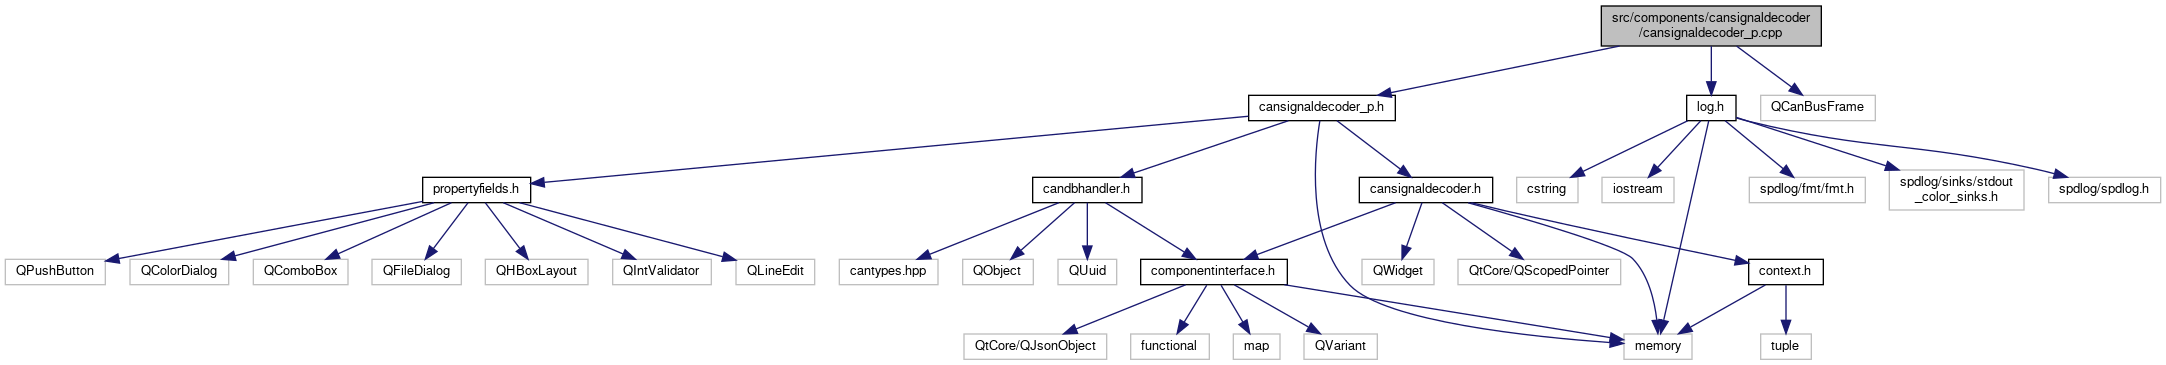
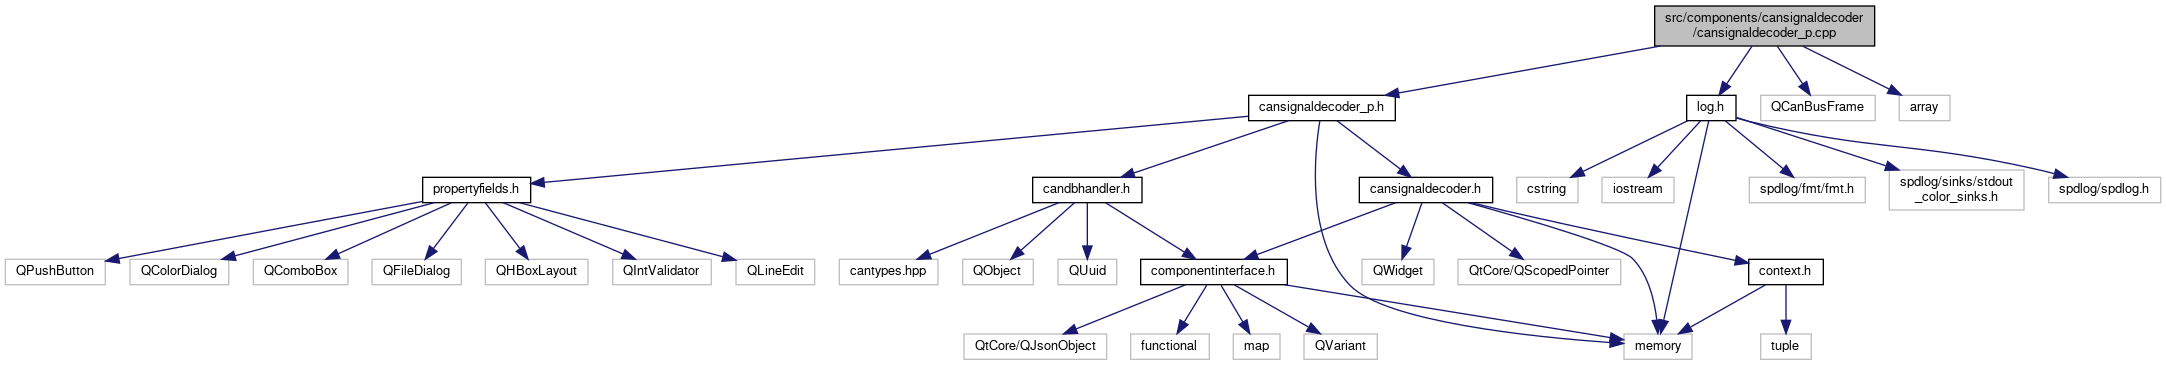
deploy: e9a850b8422395a989dd44d755311adb038e8e6a

diff --git a/cansignalencoder__p_8h_source.html b/cansignalencoder__p_8h_source.html
@@ -149,16 +149,16 @@ $(document).ready(function(){initNavTree('cansignalencoder__p_8h_source.html',''
 <div class="ttc" id="aclass_can_signal_encoder_html"><div class="ttname"><a href="class_can_signal_encoder.html">CanSignalEncoder</a></div><div class="ttdef"><b>Definition:</b> cansignalencoder.h:16</div></div>
 <div class="ttc" id="aclass_can_signal_encoder_private_html"><div class="ttname"><a href="class_can_signal_encoder_private.html">CanSignalEncoderPrivate</a></div><div class="ttdef"><b>Definition:</b> cansignalencoder_p.h:13</div></div>
 <div class="ttc" id="aclass_can_signal_encoder_private_html_a112a1b1b8e1abdddb9583ad1f53dddff"><div class="ttname"><a href="class_can_signal_encoder_private.html#a112a1b1b8e1abdddb9583ad1f53dddff">CanSignalEncoderPrivate::_props</a></div><div class="ttdeci">std::map&lt; QString, QVariant &gt; _props</div><div class="ttdef"><b>Definition:</b> cansignalencoder_p.h:31</div></div>
-<div class="ttc" id="aclass_can_signal_encoder_private_html_a1c3cdb130393f5fd9a4c0426e6a22fbc"><div class="ttname"><a href="class_can_signal_encoder_private.html#a1c3cdb130393f5fd9a4c0426e6a22fbc">CanSignalEncoderPrivate::setSettings</a></div><div class="ttdeci">void setSettings(const QJsonObject &amp;json)</div><div class="ttdef"><b>Definition:</b> cansignalencoder_p.cpp:38</div></div>
-<div class="ttc" id="aclass_can_signal_encoder_private_html_a1d15427a185d95550469435887cd573c"><div class="ttname"><a href="class_can_signal_encoder_private.html#a1d15427a185d95550469435887cd573c">CanSignalEncoderPrivate::initCacheAndTimers</a></div><div class="ttdeci">void initCacheAndTimers()</div><div class="ttdef"><b>Definition:</b> cansignalencoder_p.cpp:142</div></div>
+<div class="ttc" id="aclass_can_signal_encoder_private_html_a1c3cdb130393f5fd9a4c0426e6a22fbc"><div class="ttname"><a href="class_can_signal_encoder_private.html#a1c3cdb130393f5fd9a4c0426e6a22fbc">CanSignalEncoderPrivate::setSettings</a></div><div class="ttdeci">void setSettings(const QJsonObject &amp;json)</div><div class="ttdef"><b>Definition:</b> cansignalencoder_p.cpp:63</div></div>
+<div class="ttc" id="aclass_can_signal_encoder_private_html_a1d15427a185d95550469435887cd573c"><div class="ttname"><a href="class_can_signal_encoder_private.html#a1d15427a185d95550469435887cd573c">CanSignalEncoderPrivate::initCacheAndTimers</a></div><div class="ttdeci">void initCacheAndTimers()</div><div class="ttdef"><b>Definition:</b> cansignalencoder_p.cpp:204</div></div>
 <div class="ttc" id="aclass_can_signal_encoder_private_html_a2688d67dd4cdfcb8e8f0fee73f22e26e"><div class="ttname"><a href="class_can_signal_encoder_private.html#a2688d67dd4cdfcb8e8f0fee73f22e26e">CanSignalEncoderPrivate::_simStarted</a></div><div class="ttdeci">bool _simStarted</div><div class="ttdef"><b>Definition:</b> cansignalencoder_p.h:29</div></div>
 <div class="ttc" id="aclass_can_signal_encoder_private_html_a38ed3288a7c041e826e42e2b87492720"><div class="ttname"><a href="class_can_signal_encoder_private.html#a38ed3288a7c041e826e42e2b87492720">CanSignalEncoderPrivate::_ctx</a></div><div class="ttdeci">CanSignalEncoderCtx _ctx</div><div class="ttdef"><b>Definition:</b> cansignalencoder_p.h:30</div></div>
 <div class="ttc" id="aclass_can_signal_encoder_private_html_a3d613b26e42b0954362a073dff501794"><div class="ttname"><a href="class_can_signal_encoder_private.html#a3d613b26e42b0954362a073dff501794">CanSignalEncoderPrivate::_cycleTimers</a></div><div class="ttdeci">std::vector&lt; std::unique_ptr&lt; QTimer &gt; &gt; _cycleTimers</div><div class="ttdef"><b>Definition:</b> cansignalencoder_p.h:33</div></div>
-<div class="ttc" id="aclass_can_signal_encoder_private_html_a8782b3bd7b60325796c8cebf780305f3"><div class="ttname"><a href="class_can_signal_encoder_private.html#a8782b3bd7b60325796c8cebf780305f3">CanSignalEncoderPrivate::getSettings</a></div><div class="ttdeci">QJsonObject getSettings()</div><div class="ttdef"><b>Definition:</b> cansignalencoder_p.cpp:27</div></div>
-<div class="ttc" id="aclass_can_signal_encoder_private_html_ac01cb0866a4cfdd1299a069c4a2883c9"><div class="ttname"><a href="class_can_signal_encoder_private.html#ac01cb0866a4cfdd1299a069c4a2883c9">CanSignalEncoderPrivate::encodeSignal</a></div><div class="ttdeci">void encodeSignal(const QString &amp;name, const QVariant &amp;val)</div><div class="ttdef"><b>Definition:</b> cansignalencoder_p.cpp:49</div></div>
+<div class="ttc" id="aclass_can_signal_encoder_private_html_a8782b3bd7b60325796c8cebf780305f3"><div class="ttname"><a href="class_can_signal_encoder_private.html#a8782b3bd7b60325796c8cebf780305f3">CanSignalEncoderPrivate::getSettings</a></div><div class="ttdeci">QJsonObject getSettings()</div><div class="ttdef"><b>Definition:</b> cansignalencoder_p.cpp:52</div></div>
+<div class="ttc" id="aclass_can_signal_encoder_private_html_ac01cb0866a4cfdd1299a069c4a2883c9"><div class="ttname"><a href="class_can_signal_encoder_private.html#ac01cb0866a4cfdd1299a069c4a2883c9">CanSignalEncoderPrivate::encodeSignal</a></div><div class="ttdeci">void encodeSignal(const QString &amp;name, const QVariant &amp;val)</div><div class="ttdef"><b>Definition:</b> cansignalencoder_p.cpp:74</div></div>
 <div class="ttc" id="aclass_can_signal_encoder_private_html_aca7d29bed834a7aaff2d6be71dd8b2a9"><div class="ttname"><a href="class_can_signal_encoder_private.html#aca7d29bed834a7aaff2d6be71dd8b2a9">CanSignalEncoderPrivate::_db</a></div><div class="ttdeci">CanDbHandler _db</div><div class="ttdef"><b>Definition:</b> cansignalencoder_p.h:32</div></div>
-<div class="ttc" id="aclass_can_signal_encoder_private_html_ad52fbe4e830aa8006e7cb53e3ad7f19b"><div class="ttname"><a href="class_can_signal_encoder_private.html#ad52fbe4e830aa8006e7cb53e3ad7f19b">CanSignalEncoderPrivate::CanSignalEncoderPrivate</a></div><div class="ttdeci">CanSignalEncoderPrivate(CanSignalEncoder *q, CanSignalEncoderCtx &amp;&amp;ctx=CanSignalEncoderCtx())</div><div class="ttdef"><b>Definition:</b> cansignalencoder_p.cpp:5</div></div>
-<div class="ttc" id="aclass_can_signal_encoder_private_html_ad88db336ecfffbd2720b79085539d583"><div class="ttname"><a href="class_can_signal_encoder_private.html#ad88db336ecfffbd2720b79085539d583">CanSignalEncoderPrivate::getSupportedProperties</a></div><div class="ttdeci">ComponentInterface::ComponentProperties getSupportedProperties() const</div><div class="ttdef"><b>Definition:</b> cansignalencoder_p.cpp:22</div></div>
+<div class="ttc" id="aclass_can_signal_encoder_private_html_ad52fbe4e830aa8006e7cb53e3ad7f19b"><div class="ttname"><a href="class_can_signal_encoder_private.html#ad52fbe4e830aa8006e7cb53e3ad7f19b">CanSignalEncoderPrivate::CanSignalEncoderPrivate</a></div><div class="ttdeci">CanSignalEncoderPrivate(CanSignalEncoder *q, CanSignalEncoderCtx &amp;&amp;ctx=CanSignalEncoderCtx())</div><div class="ttdef"><b>Definition:</b> cansignalencoder_p.cpp:30</div></div>
+<div class="ttc" id="aclass_can_signal_encoder_private_html_ad88db336ecfffbd2720b79085539d583"><div class="ttname"><a href="class_can_signal_encoder_private.html#ad88db336ecfffbd2720b79085539d583">CanSignalEncoderPrivate::getSupportedProperties</a></div><div class="ttdeci">ComponentInterface::ComponentProperties getSupportedProperties() const</div><div class="ttdef"><b>Definition:</b> cansignalencoder_p.cpp:47</div></div>
 <div class="ttc" id="apropertyfields_8h_html"><div class="ttname"><a href="propertyfields_8h.html">propertyfields.h</a></div></div>
 <div class="ttc" id="astruct_component_interface_html_a79433f0a1dc1aec86f1e95b0199c4c6c"><div class="ttname"><a href="struct_component_interface.html#a79433f0a1dc1aec86f1e95b0199c4c6c">ComponentInterface::ComponentProperties</a></div><div class="ttdeci">std::vector&lt; ComponentProperty &gt; ComponentProperties</div><div class="ttdef"><b>Definition:</b> componentinterface.h:66</div></div>
 <div class="ttc" id="astruct_component_interface_html_a88d3bbc65e8418798dbdc6ee491e768b"><div class="ttname"><a href="struct_component_interface.html#a88d3bbc65e8418798dbdc6ee491e768b">ComponentInterface::CustomEditFieldCbk</a></div><div class="ttdeci">std::function&lt; QWidget *(void)&gt; CustomEditFieldCbk</div><div class="ttdef"><b>Definition:</b> componentinterface.h:64</div></div>

diff --git a/cansignaldecoder__p_8h_source.html b/cansignaldecoder__p_8h_source.html
@@ -143,13 +143,13 @@ $(document).ready(function(){initNavTree('cansignaldecoder__p_8h_source.html',''
 <div class="ttc" id="aclass_can_signal_decoder_private_html"><div class="ttname"><a href="class_can_signal_decoder_private.html">CanSignalDecoderPrivate</a></div><div class="ttdef"><b>Definition:</b> cansignaldecoder_p.h:11</div></div>
 <div class="ttc" id="aclass_can_signal_decoder_private_html_a1cbeb06235e38de0e115f2ed20b55b74"><div class="ttname"><a href="class_can_signal_decoder_private.html#a1cbeb06235e38de0e115f2ed20b55b74">CanSignalDecoderPrivate::_db</a></div><div class="ttdeci">CanDbHandler _db</div><div class="ttdef"><b>Definition:</b> cansignaldecoder_p.h:29</div></div>
 <div class="ttc" id="aclass_can_signal_decoder_private_html_a35fbc4765b82aaefad89a2a6380b77ef"><div class="ttname"><a href="class_can_signal_decoder_private.html#a35fbc4765b82aaefad89a2a6380b77ef">CanSignalDecoderPrivate::_ctx</a></div><div class="ttdeci">CanSignalDecoderCtx _ctx</div><div class="ttdef"><b>Definition:</b> cansignaldecoder_p.h:27</div></div>
-<div class="ttc" id="aclass_can_signal_decoder_private_html_a5a32691a6d89a0271c4e8deba8f42947"><div class="ttname"><a href="class_can_signal_decoder_private.html#a5a32691a6d89a0271c4e8deba8f42947">CanSignalDecoderPrivate::setSettings</a></div><div class="ttdeci">void setSettings(const QJsonObject &amp;json)</div><div class="ttdef"><b>Definition:</b> cansignaldecoder_p.cpp:38</div></div>
+<div class="ttc" id="aclass_can_signal_decoder_private_html_a5a32691a6d89a0271c4e8deba8f42947"><div class="ttname"><a href="class_can_signal_decoder_private.html#a5a32691a6d89a0271c4e8deba8f42947">CanSignalDecoderPrivate::setSettings</a></div><div class="ttdeci">void setSettings(const QJsonObject &amp;json)</div><div class="ttdef"><b>Definition:</b> cansignaldecoder_p.cpp:64</div></div>
 <div class="ttc" id="aclass_can_signal_decoder_private_html_a88f1544ad57e210a1a281845b71d47c3"><div class="ttname"><a href="class_can_signal_decoder_private.html#a88f1544ad57e210a1a281845b71d47c3">CanSignalDecoderPrivate::_simStarted</a></div><div class="ttdeci">bool _simStarted</div><div class="ttdef"><b>Definition:</b> cansignaldecoder_p.h:26</div></div>
-<div class="ttc" id="aclass_can_signal_decoder_private_html_aa8c689a7733993c4edcf5f00d3b8c187"><div class="ttname"><a href="class_can_signal_decoder_private.html#aa8c689a7733993c4edcf5f00d3b8c187">CanSignalDecoderPrivate::getSettings</a></div><div class="ttdeci">QJsonObject getSettings()</div><div class="ttdef"><b>Definition:</b> cansignaldecoder_p.cpp:27</div></div>
-<div class="ttc" id="aclass_can_signal_decoder_private_html_aae01622326d2b3a8b71b7e6eb7b5482c"><div class="ttname"><a href="class_can_signal_decoder_private.html#aae01622326d2b3a8b71b7e6eb7b5482c">CanSignalDecoderPrivate::CanSignalDecoderPrivate</a></div><div class="ttdeci">CanSignalDecoderPrivate(CanSignalDecoder *q, CanSignalDecoderCtx &amp;&amp;ctx=CanSignalDecoderCtx())</div><div class="ttdef"><b>Definition:</b> cansignaldecoder_p.cpp:5</div></div>
+<div class="ttc" id="aclass_can_signal_decoder_private_html_aa8c689a7733993c4edcf5f00d3b8c187"><div class="ttname"><a href="class_can_signal_decoder_private.html#aa8c689a7733993c4edcf5f00d3b8c187">CanSignalDecoderPrivate::getSettings</a></div><div class="ttdeci">QJsonObject getSettings()</div><div class="ttdef"><b>Definition:</b> cansignaldecoder_p.cpp:53</div></div>
+<div class="ttc" id="aclass_can_signal_decoder_private_html_aae01622326d2b3a8b71b7e6eb7b5482c"><div class="ttname"><a href="class_can_signal_decoder_private.html#aae01622326d2b3a8b71b7e6eb7b5482c">CanSignalDecoderPrivate::CanSignalDecoderPrivate</a></div><div class="ttdeci">CanSignalDecoderPrivate(CanSignalDecoder *q, CanSignalDecoderCtx &amp;&amp;ctx=CanSignalDecoderCtx())</div><div class="ttdef"><b>Definition:</b> cansignaldecoder_p.cpp:31</div></div>
 <div class="ttc" id="aclass_can_signal_decoder_private_html_ad51bbd69f48fa2ee026f60d6cba39b08"><div class="ttname"><a href="class_can_signal_decoder_private.html#ad51bbd69f48fa2ee026f60d6cba39b08">CanSignalDecoderPrivate::_props</a></div><div class="ttdeci">std::map&lt; QString, QVariant &gt; _props</div><div class="ttdef"><b>Definition:</b> cansignaldecoder_p.h:28</div></div>
-<div class="ttc" id="aclass_can_signal_decoder_private_html_adebd1a778944acf707cfb2c7c9895dbe"><div class="ttname"><a href="class_can_signal_decoder_private.html#adebd1a778944acf707cfb2c7c9895dbe">CanSignalDecoderPrivate::decodeFrame</a></div><div class="ttdeci">void decodeFrame(const QCanBusFrame &amp;frame, Direction const direction, bool status)</div><div class="ttdef"><b>Definition:</b> cansignaldecoder_p.cpp:49</div></div>
-<div class="ttc" id="aclass_can_signal_decoder_private_html_ae1c21191f5f77f1c15ffcf6a34e0a15b"><div class="ttname"><a href="class_can_signal_decoder_private.html#ae1c21191f5f77f1c15ffcf6a34e0a15b">CanSignalDecoderPrivate::getSupportedProperties</a></div><div class="ttdeci">ComponentInterface::ComponentProperties getSupportedProperties() const</div><div class="ttdef"><b>Definition:</b> cansignaldecoder_p.cpp:22</div></div>
+<div class="ttc" id="aclass_can_signal_decoder_private_html_adebd1a778944acf707cfb2c7c9895dbe"><div class="ttname"><a href="class_can_signal_decoder_private.html#adebd1a778944acf707cfb2c7c9895dbe">CanSignalDecoderPrivate::decodeFrame</a></div><div class="ttdeci">void decodeFrame(const QCanBusFrame &amp;frame, Direction const direction, bool status)</div><div class="ttdef"><b>Definition:</b> cansignaldecoder_p.cpp:75</div></div>
+<div class="ttc" id="aclass_can_signal_decoder_private_html_ae1c21191f5f77f1c15ffcf6a34e0a15b"><div class="ttname"><a href="class_can_signal_decoder_private.html#ae1c21191f5f77f1c15ffcf6a34e0a15b">CanSignalDecoderPrivate::getSupportedProperties</a></div><div class="ttdeci">ComponentInterface::ComponentProperties getSupportedProperties() const</div><div class="ttdef"><b>Definition:</b> cansignaldecoder_p.cpp:48</div></div>
 <div class="ttc" id="adatadirection_8h_html_a224b9163917ac32fc95a60d8c1eec3aa"><div class="ttname"><a href="datadirection_8h.html#a224b9163917ac32fc95a60d8c1eec3aa">Direction</a></div><div class="ttdeci">Direction</div><div class="ttdoc">The enum class describing frame direction.</div><div class="ttdef"><b>Definition:</b> datadirection.h:7</div></div>
 <div class="ttc" id="apropertyfields_8h_html"><div class="ttname"><a href="propertyfields_8h.html">propertyfields.h</a></div></div>
 <div class="ttc" id="astruct_component_interface_html_a79433f0a1dc1aec86f1e95b0199c4c6c"><div class="ttname"><a href="struct_component_interface.html#a79433f0a1dc1aec86f1e95b0199c4c6c">ComponentInterface::ComponentProperties</a></div><div class="ttdeci">std::vector&lt; ComponentProperty &gt; ComponentProperties</div><div class="ttdef"><b>Definition:</b> componentinterface.h:66</div></div>

diff --git a/cansignaldecoder__p_8cpp.html b/cansignaldecoder__p_8cpp.html
@@ -88,15 +88,17 @@ $(document).ready(function(){initNavTree('cansignaldecoder__p_8cpp.html',''); in
 <div class="contents">
 <div class="textblock"><code>#include &quot;<a class="el" href="cansignaldecoder__p_8h_source.html">cansignaldecoder_p.h</a>&quot;</code><br />
 <code>#include &lt;QCanBusFrame&gt;</code><br />
+<code>#include &lt;array&gt;</code><br />
 <code>#include &lt;<a class="el" href="log_8h_source.html">log.h</a>&gt;</code><br />
 </div><div class="textblock"><div class="dynheader">
 Include dependency graph for cansignaldecoder_p.cpp:</div>
 <div class="dyncontent">
 <div class="center"><img src="cansignaldecoder__p_8cpp__incl.png" border="0" usemap="#asrc_2components_2cansignaldecoder_2cansignaldecoder__p_8cpp" alt=""/></div>
 <map name="asrc_2components_2cansignaldecoder_2cansignaldecoder__p_8cpp" id="asrc_2components_2cansignaldecoder_2cansignaldecoder__p_8cpp">
-<area shape="rect" title=" " alt="" coords="1601,5,1821,47"/>
+<area shape="rect" title=" " alt="" coords="1655,5,1875,47"/>
 <area shape="rect" href="cansignaldecoder__p_8h.html" title=" " alt="" coords="1249,95,1395,121"/>
 <area shape="rect" title=" " alt="" coords="1761,95,1875,121"/>
+<area shape="rect" title=" " alt="" coords="1899,95,1950,121"/>
 <area shape="rect" href="log_8h.html" title=" " alt="" coords="1687,95,1736,121"/>
 <area shape="rect" href="cansignaldecoder_8h.html" title=" " alt="" coords="1359,177,1493,203"/>
 <area shape="rect" title=" " alt="" coords="1624,333,1692,360"/>
